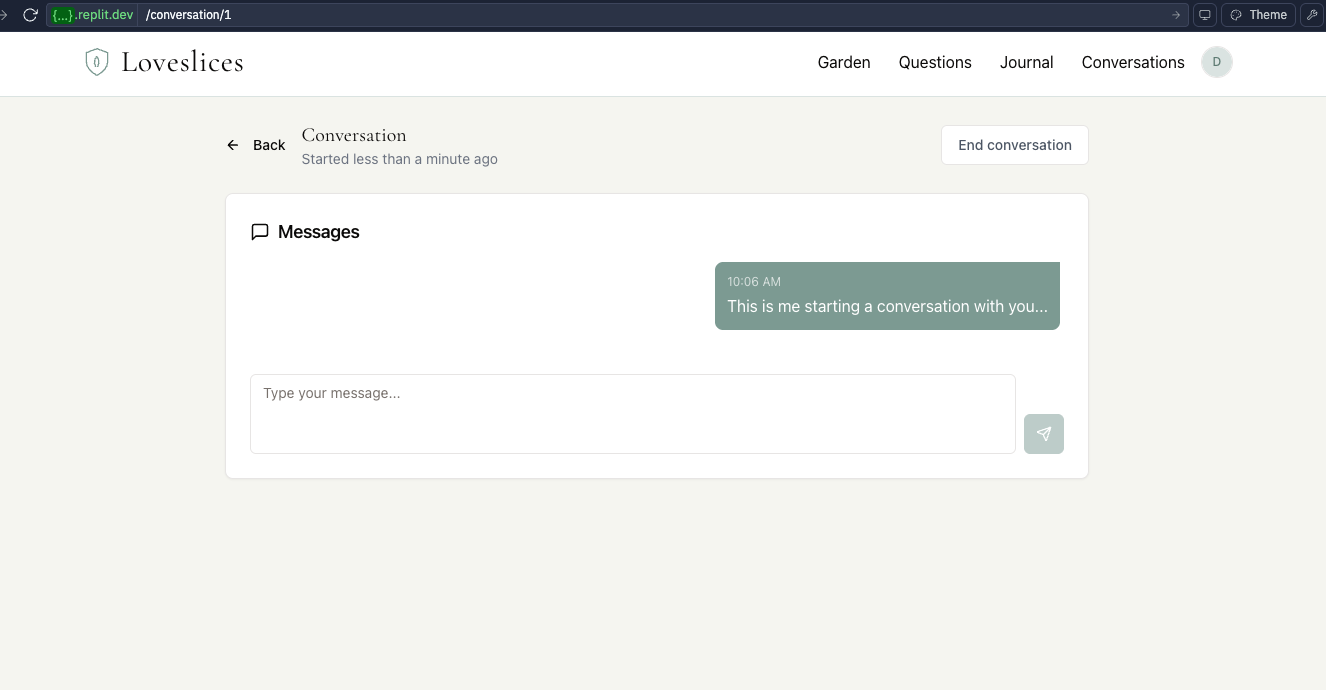
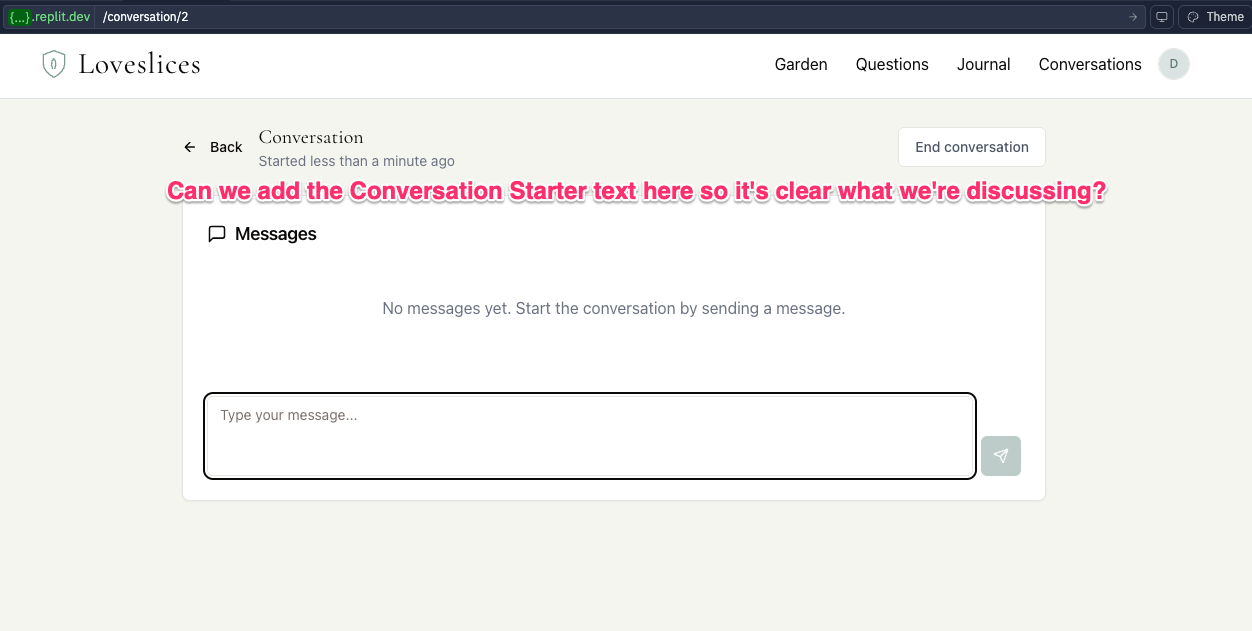
Add conversation starter context to conversation page
Replit-Commit-Author: Agent
Replit-Commit-Session-Id: 96989300-5b56-458a-9d0c-a45acc23a2b8
Replit-Commit-Screenshot-Url: https://storage.googleapis.com/screenshot-production-us-central1/f510d43b-0e06-4811-9f23-fc2c17d01cea/da9311d1-075c-45f4-8cdb-b0a561bfbd6c.jpg

diff --git a/client/src/pages/conversation-page.tsx b/client/src/pages/conversation-page.tsx
@@ -207,7 +207,7 @@ export default function ConversationPage() {
     <MainLayout>
       <div className="max-w-4xl mx-auto px-4 py-6">
         {/* Header */}
-        <div className="flex items-center justify-between mb-6">
+        <div className="flex items-center mb-4">
           <Button variant="ghost" onClick={() => navigate("/")} className="p-0 mr-4">
             <ArrowLeft className="h-5 w-5 mr-1" />
             <span>Back</span>
@@ -216,7 +216,7 @@ export default function ConversationPage() {
           <div className="flex-1">
             <h1 className="text-xl font-serif">
               {conversation.starter
-                ? `Talking about: "${conversation.starter.content}"`
+                ? `Conversation`
                 : conversation.loveslice
                   ? `Discussing your Loveslice`
                   : `Conversation`}
@@ -247,6 +247,18 @@ export default function ConversationPage() {
           )}
         </div>
         
+        {/* Conversation Starter */}
+        {conversation.starter && (
+          <HandDrawnBorder className="mb-6 bg-white p-4 rounded-lg border-2 border-sage/30">
+            <div className="mb-2">
+              <span className="text-sm font-medium text-sage">Conversation Starter:</span>
+            </div>
+            <blockquote className="font-serif text-xl">
+              "{conversation.starter.content}"
+            </blockquote>
+          </HandDrawnBorder>
+        )}
+        
         {/* Source content */}
         {conversation.loveslice && (
           <HandDrawnBorder className="mb-6 bg-white p-4 rounded-lg">
@@ -271,17 +283,6 @@ export default function ConversationPage() {
                 </div>
               ))}
             </div>
-          </HandDrawnBorder>
-        )}
-        
-        {conversation.starter && (
-          <HandDrawnBorder className="mb-6 bg-white p-4 rounded-lg">
-            <div className="mb-3">
-              <span className="text-sm text-gray-500">Conversation starter:</span>
-            </div>
-            <blockquote className="font-serif text-lg">
-              "{conversation.starter.content}"
-            </blockquote>
           </HandDrawnBorder>
         )}
         
